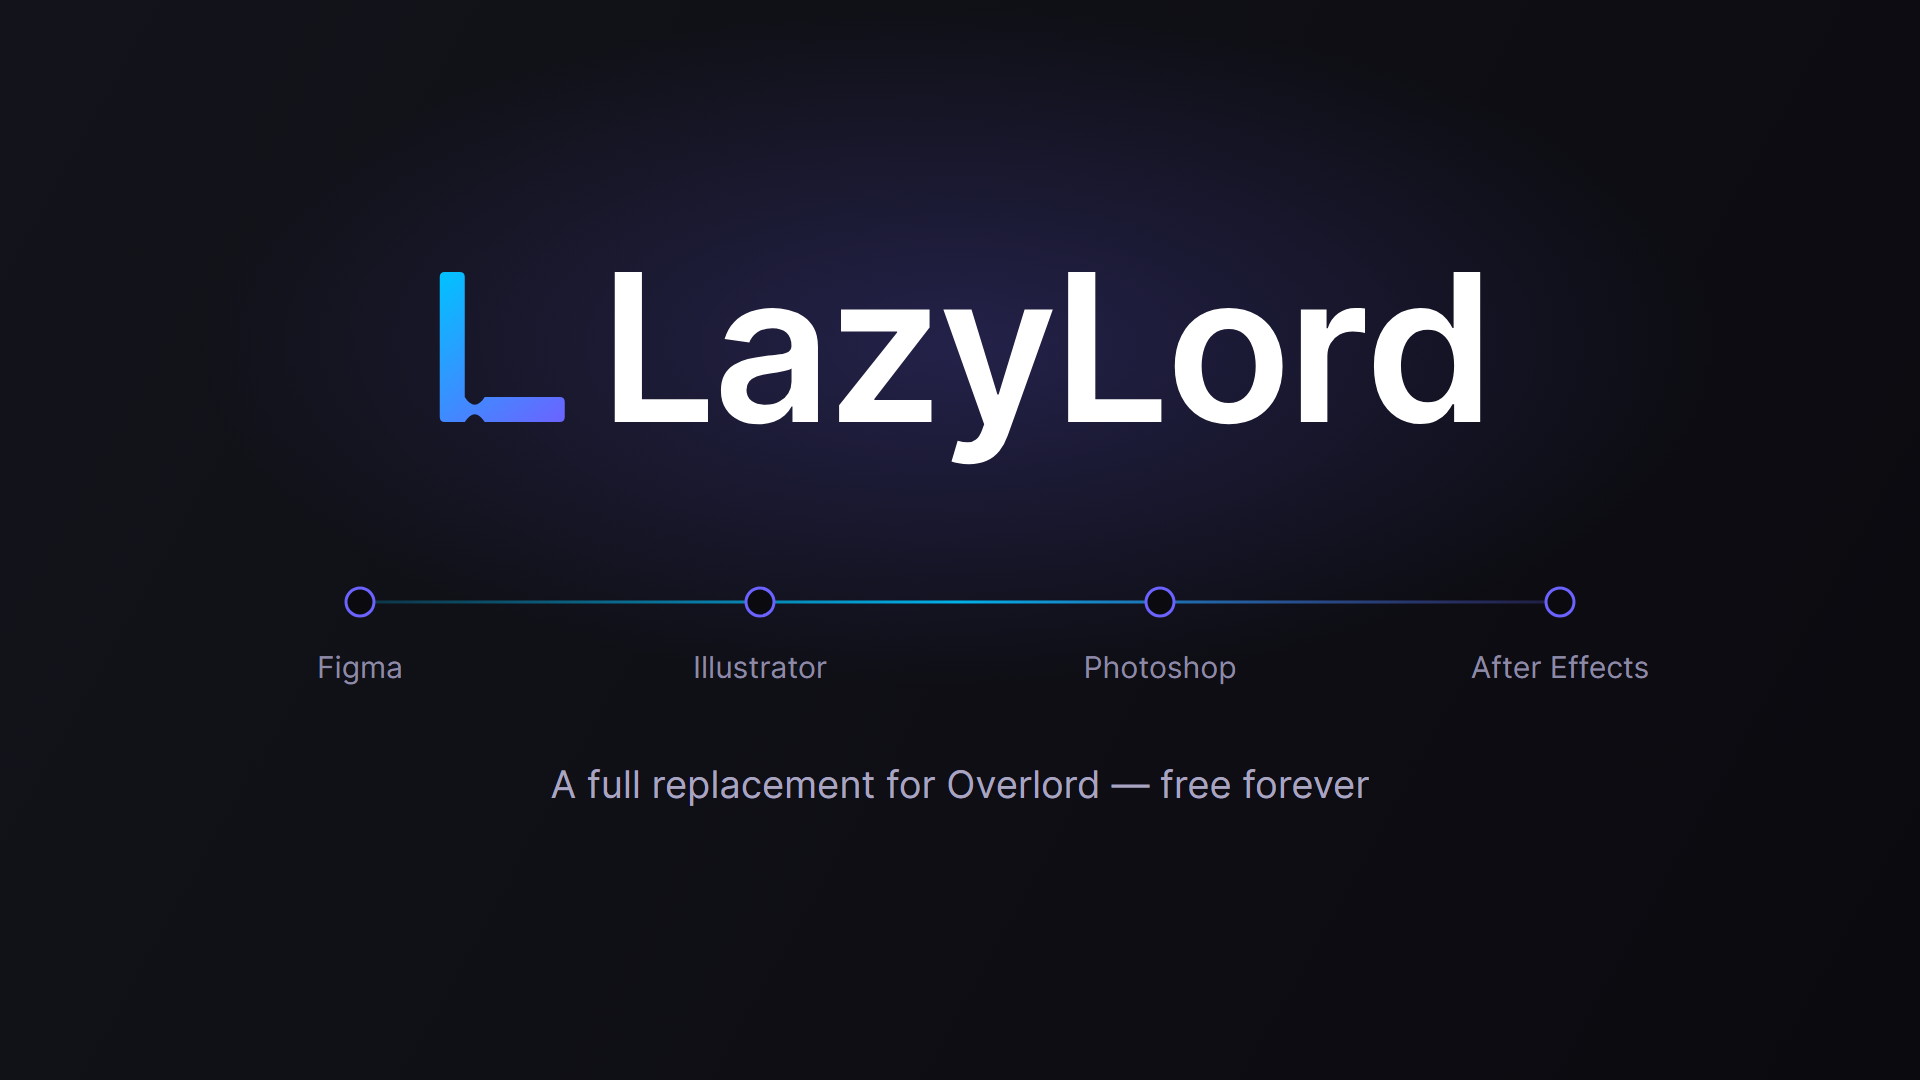
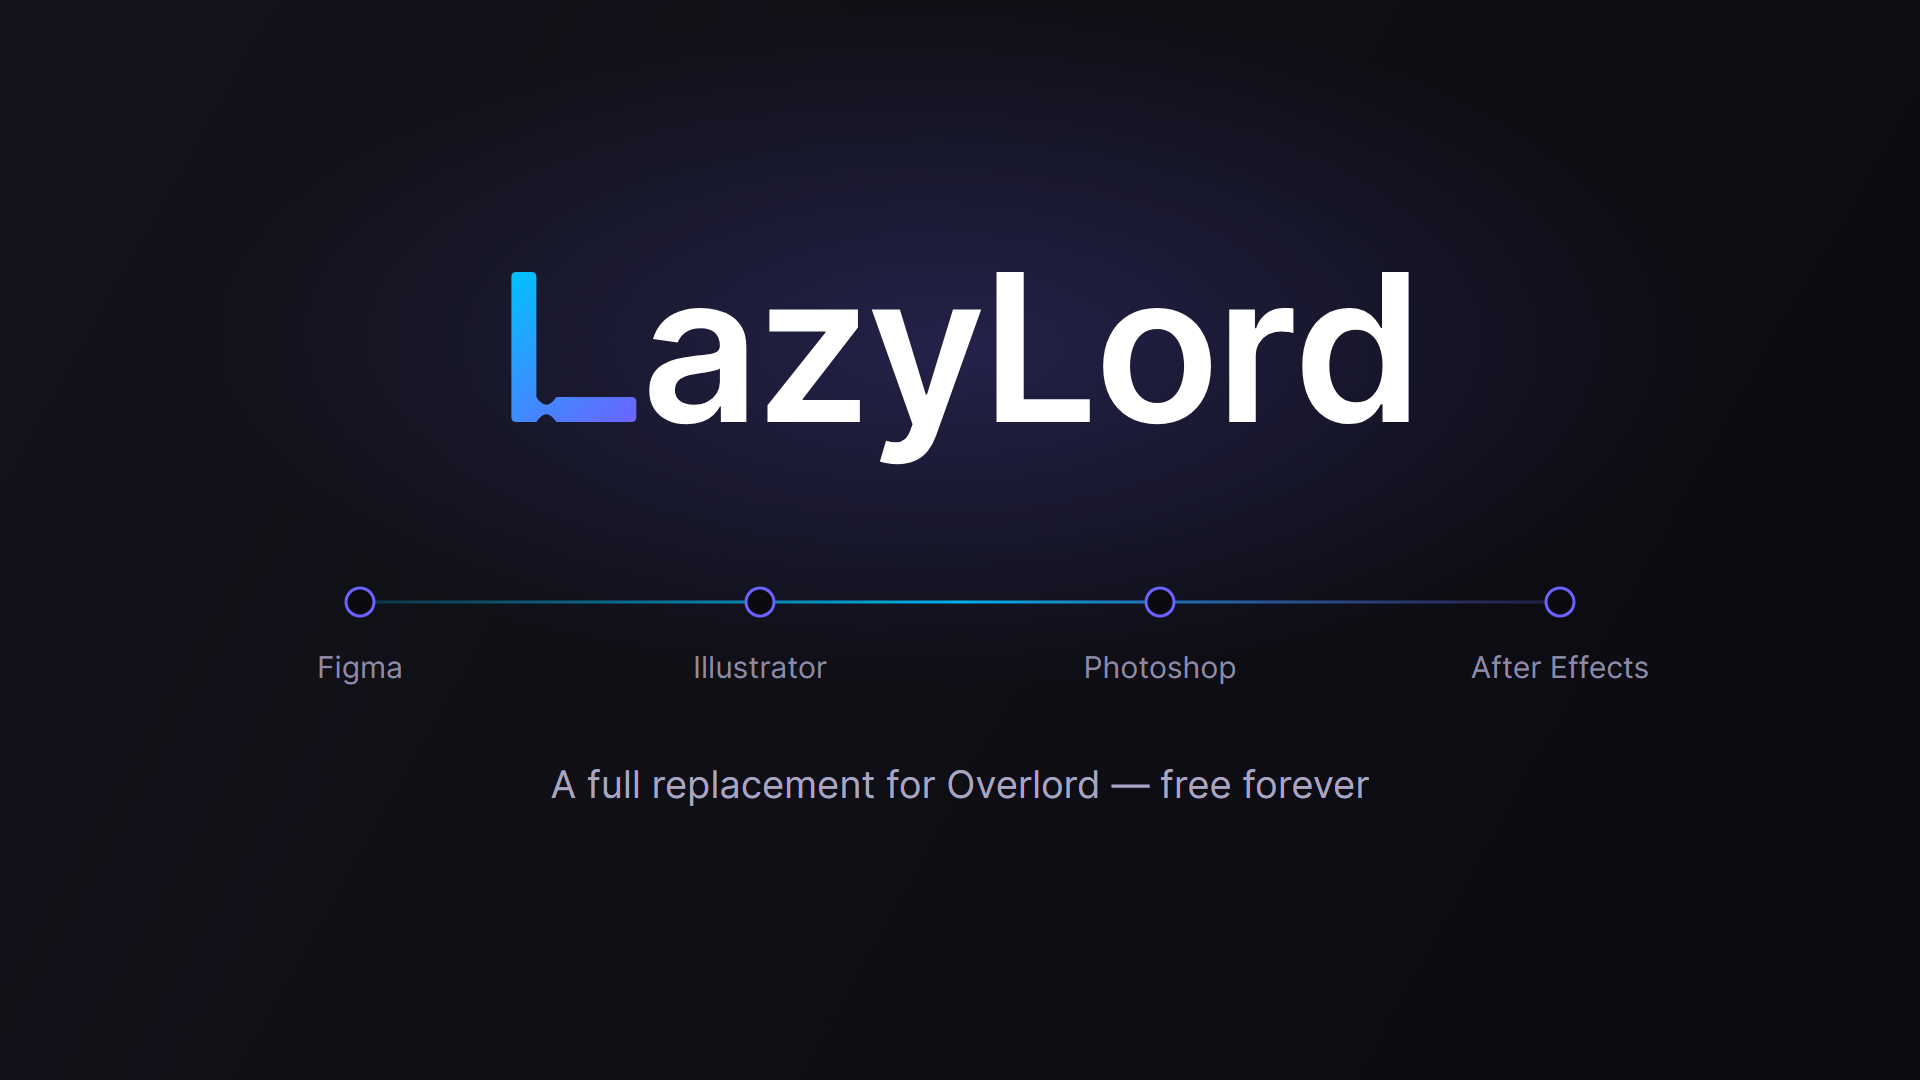
The symbol is the L of LazyLord; the interface wears the brand gradient
The logo now reads LazyLord with the symbol standing in for its L and
'azyLord' set where Inter SemiBold puts an a after its own L, in the panel and
plugin headers, the README banner, the Figma Community thumbnail and the
lockups in assets/logo. Filled controls (Send, the chosen target and scale)
use the electric blue to violet gradient, and outlines, focus rings,
checkboxes and menus the violet, in place of the old purple and of Figma's
own brand colour.

Changed region(s): [[0.2188, 0.2444, 0.7812, 0.4278]]

diff --git a/packages/adobe-cep/index.html b/packages/adobe-cep/index.html
@@ -32,10 +32,10 @@
       --surface-hover: #252525;
       --sunken: #0d0d0d;
       --hover-tint: rgba(255, 255, 255, .04);
-      --accent: #7c3aed;
-      --accent-hover: #6d28d9;
+      --accent: #6c63ff;
+      --accent-hover: #5b52f0;
       --accent-fg: #fff;
-      --accent-soft: rgba(124, 58, 237, .22);
+      --accent-soft: rgba(108, 99, 255, .24);
       --ok: #22c55e;
       --err: #ef4444;
       --warn: #e0a23c;
@@ -44,10 +44,10 @@
       --scroll: #333;
       --menu-bg: #222;
       --menu-border: rgba(255, 255, 255, .1);
-      --menu-hover: rgba(124, 58, 237, .12);
-      --menu-hover-fg: #e4dcff;
-      --menu-selected-bg: rgba(124, 58, 237, .2);
-      --menu-selected-fg: #c4b5fd;
+      --menu-hover: rgba(108, 99, 255, .14);
+      --menu-hover-fg: #e3e1ff;
+      --menu-selected-bg: rgba(108, 99, 255, .22);
+      --menu-selected-fg: #b9b5ff;
       /* A docked panel is narrower than a plugin window, so the switch wraps
          sooner, and the four scales still fit one row at the 240px minimum. */
       --chip-min: 84px;
@@ -59,8 +59,7 @@
   <div id="app">
     <header class="a-head">
       <div class="a-logo">
-        <svg class="a-mark" width="14" height="14" viewBox="0 0 16 16" fill="none" aria-hidden="true"><defs><linearGradient id="ll-mark-panel" x1="2" y1="2" x2="14" y2="14" gradientUnits="userSpaceOnUse"><stop offset="0" stop-color="#00C2FF"></stop><stop offset="1" stop-color="#6C63FF"></stop></linearGradient></defs><path d="M2 2H5V11H14V14H2Z" fill="url(#ll-mark-panel)"></path></svg>
-        <span class="a-title">LazyLord</span>
+        <svg class="a-wordmark" viewBox="2.8 2.8 108.07 23.463" width="69.09" height="15" role="img" aria-label="LazyLord"><defs><linearGradient id="ll-logo-panel" x1="3" y1="3" x2="18" y2="21" gradientUnits="userSpaceOnUse"><stop offset="0" stop-color="#00C2FF"/><stop offset="1" stop-color="#6C63FF"/></linearGradient></defs><path d="M3.6 3 H5.4 Q6 3 6 3.6 V18 C6.8 19.25 7.6 19.25 8.4 18 H17.4 Q18 18 18 18.6 V20.4 Q18 21 17.4 21 H8.4 C7.6 19.75 6.8 19.75 6 21 H3.6 Q3 21 3 20.4 V3.6 Q3 3 3.6 3 Z" fill="url(#ll-logo-panel)"/><path d="M24.070 21.272L24.070 21.272Q22.787 21.272 21.763 20.811Q20.739 20.350 20.146 19.444Q19.553 18.539 19.553 17.212L19.553 17.212Q19.553 16.069 19.975 15.322Q20.397 14.575 21.126 14.127Q21.856 13.679 22.774 13.446Q23.693 13.213 24.677 13.107L24.677 13.107Q25.863 12.984 26.602 12.883Q27.340 12.782 27.678 12.567Q28.017 12.352 28.017 11.895L28.017 11.895L28.017 11.842Q28.017 10.849 27.428 10.304Q26.839 9.759 25.732 9.759L25.732 9.759Q24.563 9.759 23.881 10.269Q23.200 10.778 22.963 11.473L22.963 11.473L19.992 11.051Q20.344 9.820 21.152 8.990Q21.961 8.159 23.130 7.742Q24.299 7.324 25.714 7.324L25.714 7.324Q26.690 7.324 27.656 7.553Q28.623 7.781 29.423 8.304Q30.223 8.827 30.711 9.724Q31.198 10.620 31.198 11.965L31.198 11.965L31.198 21L28.140 21L28.140 19.146L28.034 19.146Q27.744 19.708 27.221 20.196Q26.698 20.684 25.912 20.978Q25.125 21.272 24.070 21.272ZM24.897 18.935L24.897 18.935Q25.855 18.935 26.558 18.552Q27.261 18.170 27.643 17.537Q28.026 16.904 28.026 16.157L28.026 16.157L28.026 14.566Q27.876 14.689 27.520 14.795Q27.164 14.900 26.725 14.979Q26.285 15.059 25.855 15.120Q25.424 15.182 25.108 15.226L25.108 15.226Q24.396 15.322 23.833 15.542Q23.271 15.762 22.945 16.153Q22.620 16.544 22.620 17.159L22.620 17.159Q22.620 18.038 23.262 18.486Q23.903 18.935 24.897 18.935ZM44.819 21L33.736 21L33.736 18.979L40.697 10.251L40.697 10.137L33.964 10.137L33.964 7.500L44.590 7.500L44.590 9.671L37.963 18.249L37.963 18.363L44.819 18.363L44.819 21ZM49.298 26.063L49.298 26.063Q48.648 26.063 48.098 25.961Q47.549 25.860 47.224 25.729L47.224 25.729L47.962 23.250Q48.657 23.452 49.202 23.443Q49.746 23.435 50.164 23.105Q50.581 22.775 50.871 22.011L50.871 22.011L51.144 21.281L46.248 7.500L49.623 7.500L52.735 17.695L52.875 17.695L55.995 7.500L59.379 7.500L53.974 22.635Q53.596 23.707 52.972 24.476Q52.348 25.245 51.447 25.654Q50.546 26.063 49.298 26.063ZM72.411 21L61.222 21L61.222 3L64.483 3L64.483 18.267L72.411 18.267L72.411 21ZM80.485 21.264L80.485 21.264Q78.507 21.264 77.057 20.394Q75.607 19.523 74.812 17.959Q74.016 16.395 74.016 14.303L74.016 14.303Q74.016 12.211 74.812 10.638Q75.607 9.064 77.057 8.194Q78.507 7.324 80.485 7.324L80.485 7.324Q82.463 7.324 83.913 8.194Q85.363 9.064 86.158 10.638Q86.954 12.211 86.954 14.303L86.954 14.303Q86.954 16.395 86.158 17.959Q85.363 19.523 83.913 20.394Q82.463 21.264 80.485 21.264ZM80.503 18.715L80.503 18.715Q81.575 18.715 82.296 18.122Q83.016 17.528 83.372 16.526Q83.728 15.524 83.728 14.294L83.728 14.294Q83.728 13.055 83.372 12.048Q83.016 11.042 82.296 10.444Q81.575 9.847 80.503 9.847L80.503 9.847Q79.404 9.847 78.679 10.444Q77.954 11.042 77.598 12.048Q77.242 13.055 77.242 14.294L77.242 14.294Q77.242 15.524 77.598 16.526Q77.954 17.528 78.679 18.122Q79.404 18.715 80.503 18.715ZM92.330 21L89.148 21L89.148 7.500L92.233 7.500L92.233 9.750L92.374 9.750Q92.743 8.581 93.644 7.944Q94.545 7.307 95.705 7.307L95.705 7.307Q95.968 7.307 96.298 7.329Q96.628 7.351 96.847 7.395L96.847 7.395L96.847 10.321Q96.645 10.251 96.210 10.194Q95.775 10.137 95.371 10.137L95.371 10.137Q94.501 10.137 93.811 10.510Q93.121 10.884 92.725 11.543Q92.330 12.202 92.330 13.063L92.330 13.063L92.330 21ZM103.480 21.237L103.480 21.237Q101.889 21.237 100.633 20.420Q99.376 19.603 98.646 18.047Q97.917 16.491 97.917 14.268L97.917 14.268Q97.917 12.018 98.660 10.466Q99.402 8.915 100.668 8.120Q101.933 7.324 103.489 7.324L103.489 7.324Q104.676 7.324 105.440 7.724Q106.205 8.124 106.653 8.682Q107.101 9.240 107.347 9.732L107.347 9.732L107.479 9.732L107.479 3L110.670 3L110.670 21L107.541 21L107.541 18.873L107.347 18.873Q107.101 19.365 106.636 19.915Q106.170 20.464 105.405 20.851Q104.640 21.237 103.480 21.237ZM104.368 18.627L104.368 18.627Q105.379 18.627 106.091 18.078Q106.803 17.528 107.172 16.544Q107.541 15.560 107.541 14.250L107.541 14.250Q107.541 12.940 107.176 11.974Q106.811 11.007 106.104 10.471Q105.396 9.935 104.368 9.935L104.368 9.935Q103.305 9.935 102.593 10.488Q101.881 11.042 101.520 12.018Q101.160 12.993 101.160 14.250L101.160 14.250Q101.160 15.516 101.525 16.504Q101.889 17.493 102.606 18.060Q103.322 18.627 104.368 18.627Z" fill="currentColor"/></svg>
         <span class="a-ver" id="ver"></span>
       </div>
       <!-- The address the bridge listens on used to sit in the footer; it is

diff --git a/packages/figma-plugin/src/ui.html b/packages/figma-plugin/src/ui.html
@@ -2,8 +2,7 @@
 <div id="app">
   <header class="a-head">
     <div class="a-logo">
-      <svg class="a-mark" width="14" height="14" viewBox="0 0 16 16" fill="none" aria-hidden="true"><defs><linearGradient id="ll-mark-plugin" x1="2" y1="2" x2="14" y2="14" gradientUnits="userSpaceOnUse"><stop offset="0" stop-color="#00C2FF"></stop><stop offset="1" stop-color="#6C63FF"></stop></linearGradient></defs><path d="M2 2H5V11H14V14H2Z" fill="url(#ll-mark-plugin)"></path></svg>
-      <span class="a-title">LazyLord</span>
+      <svg class="a-wordmark" viewBox="2.8 2.8 108.07 23.463" width="69.09" height="15" role="img" aria-label="LazyLord"><defs><linearGradient id="ll-logo-plugin" x1="3" y1="3" x2="18" y2="21" gradientUnits="userSpaceOnUse"><stop offset="0" stop-color="#00C2FF"/><stop offset="1" stop-color="#6C63FF"/></linearGradient></defs><path d="M3.6 3 H5.4 Q6 3 6 3.6 V18 C6.8 19.25 7.6 19.25 8.4 18 H17.4 Q18 18 18 18.6 V20.4 Q18 21 17.4 21 H8.4 C7.6 19.75 6.8 19.75 6 21 H3.6 Q3 21 3 20.4 V3.6 Q3 3 3.6 3 Z" fill="url(#ll-logo-plugin)"/><path d="M24.070 21.272L24.070 21.272Q22.787 21.272 21.763 20.811Q20.739 20.350 20.146 19.444Q19.553 18.539 19.553 17.212L19.553 17.212Q19.553 16.069 19.975 15.322Q20.397 14.575 21.126 14.127Q21.856 13.679 22.774 13.446Q23.693 13.213 24.677 13.107L24.677 13.107Q25.863 12.984 26.602 12.883Q27.340 12.782 27.678 12.567Q28.017 12.352 28.017 11.895L28.017 11.895L28.017 11.842Q28.017 10.849 27.428 10.304Q26.839 9.759 25.732 9.759L25.732 9.759Q24.563 9.759 23.881 10.269Q23.200 10.778 22.963 11.473L22.963 11.473L19.992 11.051Q20.344 9.820 21.152 8.990Q21.961 8.159 23.130 7.742Q24.299 7.324 25.714 7.324L25.714 7.324Q26.690 7.324 27.656 7.553Q28.623 7.781 29.423 8.304Q30.223 8.827 30.711 9.724Q31.198 10.620 31.198 11.965L31.198 11.965L31.198 21L28.140 21L28.140 19.146L28.034 19.146Q27.744 19.708 27.221 20.196Q26.698 20.684 25.912 20.978Q25.125 21.272 24.070 21.272ZM24.897 18.935L24.897 18.935Q25.855 18.935 26.558 18.552Q27.261 18.170 27.643 17.537Q28.026 16.904 28.026 16.157L28.026 16.157L28.026 14.566Q27.876 14.689 27.520 14.795Q27.164 14.900 26.725 14.979Q26.285 15.059 25.855 15.120Q25.424 15.182 25.108 15.226L25.108 15.226Q24.396 15.322 23.833 15.542Q23.271 15.762 22.945 16.153Q22.620 16.544 22.620 17.159L22.620 17.159Q22.620 18.038 23.262 18.486Q23.903 18.935 24.897 18.935ZM44.819 21L33.736 21L33.736 18.979L40.697 10.251L40.697 10.137L33.964 10.137L33.964 7.500L44.590 7.500L44.590 9.671L37.963 18.249L37.963 18.363L44.819 18.363L44.819 21ZM49.298 26.063L49.298 26.063Q48.648 26.063 48.098 25.961Q47.549 25.860 47.224 25.729L47.224 25.729L47.962 23.250Q48.657 23.452 49.202 23.443Q49.746 23.435 50.164 23.105Q50.581 22.775 50.871 22.011L50.871 22.011L51.144 21.281L46.248 7.500L49.623 7.500L52.735 17.695L52.875 17.695L55.995 7.500L59.379 7.500L53.974 22.635Q53.596 23.707 52.972 24.476Q52.348 25.245 51.447 25.654Q50.546 26.063 49.298 26.063ZM72.411 21L61.222 21L61.222 3L64.483 3L64.483 18.267L72.411 18.267L72.411 21ZM80.485 21.264L80.485 21.264Q78.507 21.264 77.057 20.394Q75.607 19.523 74.812 17.959Q74.016 16.395 74.016 14.303L74.016 14.303Q74.016 12.211 74.812 10.638Q75.607 9.064 77.057 8.194Q78.507 7.324 80.485 7.324L80.485 7.324Q82.463 7.324 83.913 8.194Q85.363 9.064 86.158 10.638Q86.954 12.211 86.954 14.303L86.954 14.303Q86.954 16.395 86.158 17.959Q85.363 19.523 83.913 20.394Q82.463 21.264 80.485 21.264ZM80.503 18.715L80.503 18.715Q81.575 18.715 82.296 18.122Q83.016 17.528 83.372 16.526Q83.728 15.524 83.728 14.294L83.728 14.294Q83.728 13.055 83.372 12.048Q83.016 11.042 82.296 10.444Q81.575 9.847 80.503 9.847L80.503 9.847Q79.404 9.847 78.679 10.444Q77.954 11.042 77.598 12.048Q77.242 13.055 77.242 14.294L77.242 14.294Q77.242 15.524 77.598 16.526Q77.954 17.528 78.679 18.122Q79.404 18.715 80.503 18.715ZM92.330 21L89.148 21L89.148 7.500L92.233 7.500L92.233 9.750L92.374 9.750Q92.743 8.581 93.644 7.944Q94.545 7.307 95.705 7.307L95.705 7.307Q95.968 7.307 96.298 7.329Q96.628 7.351 96.847 7.395L96.847 7.395L96.847 10.321Q96.645 10.251 96.210 10.194Q95.775 10.137 95.371 10.137L95.371 10.137Q94.501 10.137 93.811 10.510Q93.121 10.884 92.725 11.543Q92.330 12.202 92.330 13.063L92.330 13.063L92.330 21ZM103.480 21.237L103.480 21.237Q101.889 21.237 100.633 20.420Q99.376 19.603 98.646 18.047Q97.917 16.491 97.917 14.268L97.917 14.268Q97.917 12.018 98.660 10.466Q99.402 8.915 100.668 8.120Q101.933 7.324 103.489 7.324L103.489 7.324Q104.676 7.324 105.440 7.724Q106.205 8.124 106.653 8.682Q107.101 9.240 107.347 9.732L107.347 9.732L107.479 9.732L107.479 3L110.670 3L110.670 21L107.541 21L107.541 18.873L107.347 18.873Q107.101 19.365 106.636 19.915Q106.170 20.464 105.405 20.851Q104.640 21.237 103.480 21.237ZM104.368 18.627L104.368 18.627Q105.379 18.627 106.091 18.078Q106.803 17.528 107.172 16.544Q107.541 15.560 107.541 14.250L107.541 14.250Q107.541 12.940 107.176 11.974Q106.811 11.007 106.104 10.471Q105.396 9.935 104.368 9.935L104.368 9.935Q103.305 9.935 102.593 10.488Q101.881 11.042 101.520 12.018Q101.160 12.993 101.160 14.250L101.160 14.250Q101.160 15.516 101.525 16.504Q101.889 17.493 102.606 18.060Q103.322 18.627 104.368 18.627Z" fill="currentColor"/></svg>
     </div>
     <div id="conn" class="a-conn a-conn--off"><span class="dot"></span><span id="conn-text">Connecting…</span></div>
   </header>

diff --git a/packages/ui-kit/lazylord.css b/packages/ui-kit/lazylord.css
@@ -38,10 +38,17 @@
   --surface-hover: var(--figma-color-bg-hover, #f2f2f2);
   --sunken: var(--figma-color-bg-secondary, #f5f5f5);
   --hover-tint: rgba(0, 0, 0, .04);
-  --accent: var(--figma-color-bg-brand, #6c4cff);
-  --accent-hover: var(--figma-color-bg-brand-hover, #5a3be0);
-  --accent-fg: var(--figma-color-text-onbrand, #fff);
-  --accent-soft: rgba(108, 76, 255, .16);
+  /* The brand: the logo's electric blue to violet. Filled controls wear the
+     gradient; outlines, focus rings and text use the violet on its own. It is
+     LazyLord's own colour, so Figma's brand tokens no longer stand in for it. */
+  --brand-blue: #00c2ff;
+  --brand-violet: #6c63ff;
+  --brand-gradient: linear-gradient(135deg, #00c2ff 0%, #6c63ff 100%);
+  --brand-gradient-hover: linear-gradient(135deg, #00b0ea 0%, #5b52f0 100%);
+  --accent: #6c63ff;
+  --accent-hover: #5b52f0;
+  --accent-fg: #fff;
+  --accent-soft: rgba(108, 99, 255, .18);
   --ok: #2ea043;
   --err: #e5484d;
   --warn: #c98a00;
@@ -51,10 +58,10 @@
   /* The dropdown menus (select.js). */
   --menu-bg: var(--figma-color-bg, #fff);
   --menu-border: var(--figma-color-border, #e6e6e6);
-  --menu-hover: rgba(108, 76, 255, .08);
+  --menu-hover: rgba(108, 99, 255, .08);
   --menu-hover-fg: var(--figma-color-text, #1a1a1a);
-  --menu-selected-bg: rgba(108, 76, 255, .12);
-  --menu-selected-fg: var(--figma-color-text-brand, #5a3be0);
+  --menu-selected-bg: rgba(108, 99, 255, .12);
+  --menu-selected-fg: #5b52f0;
 
   --mono: "JetBrains Mono", Consolas, "SF Mono", Menlo, monospace;
   --ease: .15s ease;
@@ -102,6 +109,8 @@ body {
 }
 .a-logo { display: flex; align-items: center; gap: 8px; min-width: 0; }
 .a-mark { color: var(--accent); width: 14px; height: 14px; flex: none; display: block; }
+/* The logo: the symbol is its L; the rest of the name takes the text colour. */
+.a-wordmark { display: block; flex: none; height: 15px; width: auto; color: var(--fg); }
 .a-title { font-size: 13px; font-weight: 600; letter-spacing: -.01em; white-space: nowrap; }
 /* Only the Adobe panel fills this in; the Figma plugin carries no element. */
 .a-ver { font-size: 9.5px; color: var(--faint); letter-spacing: .01em; }
@@ -201,7 +210,7 @@ body {
 }
 .a-target:hover { color: var(--fg-2); background: var(--hover-tint); }
 .a-target.is-active {
-  background: var(--accent);
+  background: var(--brand-gradient);
   color: var(--accent-fg);
   font-weight: 600;
   box-shadow: 0 1px 2px rgba(0, 0, 0, .25);
@@ -217,15 +226,15 @@ body {
 }
 .a-scale:hover { background: var(--surface-hover); border-color: var(--border-strong); color: var(--fg-2); }
 .a-scale.is-active {
-  background: var(--accent);
-  border-color: var(--accent);
+  background: var(--brand-gradient);
+  border-color: transparent;
   color: var(--accent-fg);
   font-weight: 600;
 }
 
 .a-target:focus-visible, .a-scale:focus-visible { outline: 2px solid var(--accent); outline-offset: 1px; }
-.a-target.is-active:hover { background: var(--accent-hover); color: var(--accent-fg); }
-.a-scale.is-active:hover { background: var(--accent-hover); border-color: var(--accent-hover); color: var(--accent-fg); }
+.a-target.is-active:hover { background: var(--brand-gradient-hover); color: var(--accent-fg); }
+.a-scale.is-active:hover { background: var(--brand-gradient-hover); border-color: transparent; color: var(--accent-fg); }
 .a-target:disabled, .a-scale:disabled { opacity: .45; cursor: not-allowed; }
 .a-target:disabled:hover { background: transparent; color: var(--muted); }
 .a-scale:disabled:hover { background: var(--surface); border-color: var(--border); color: var(--muted); }
@@ -421,7 +430,7 @@ body {
   padding: 10px;
   border: none;
   border-radius: 8px;
-  background: var(--accent);
+  background: var(--brand-gradient);
   color: var(--accent-fg);
   font: inherit;
   font-weight: 600;
@@ -430,7 +439,7 @@ body {
   cursor: pointer;
   transition: background var(--ease), box-shadow var(--ease), transform .08s ease;
 }
-.a-send:hover:not(:disabled) { background: var(--accent-hover); box-shadow: 0 4px 14px var(--accent-soft); }
+.a-send:hover:not(:disabled) { background: var(--brand-gradient-hover); box-shadow: 0 4px 14px var(--accent-soft); }
 .a-send:active:not(:disabled) { transform: translateY(1px); box-shadow: none; }
 .a-send:focus-visible { outline: 2px solid var(--accent); outline-offset: 2px; }
 .a-send:disabled { background: var(--chip); color: var(--faint); cursor: not-allowed; }

diff --git a/README.md b/README.md
@@ -11,7 +11,7 @@ Everything you would buy Overlord for, with nothing to pay, today or later.
 Select something. Press **Send**. It arrives in the other app as *real* artwork —
 editable paths, live text, proper layers — not a flattened screenshot.
 
-[![Download LazyLord](https://img.shields.io/github/v/release/raisulsohan/LazyLord?label=Download&style=for-the-badge&color=6c4cff&labelColor=1a1a1a)](../../releases/latest)
+[![Download LazyLord](https://img.shields.io/github/v/release/raisulsohan/LazyLord?label=Download&style=for-the-badge&color=6c63ff&labelColor=1a1a1a)](../../releases/latest)
 [![Licence: MIT](https://img.shields.io/badge/Licence-MIT-2ea043?style=for-the-badge&labelColor=1a1a1a)](LICENSE)
 [![Windows and macOS](https://img.shields.io/badge/Windows-%C2%B7%20macOS-444?style=for-the-badge&labelColor=1a1a1a)](#what-you-need)
 
